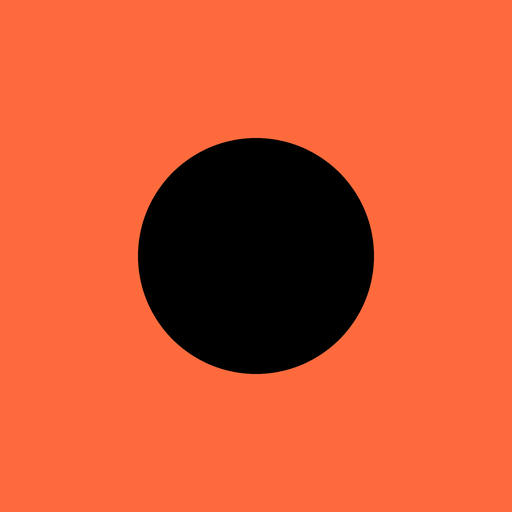
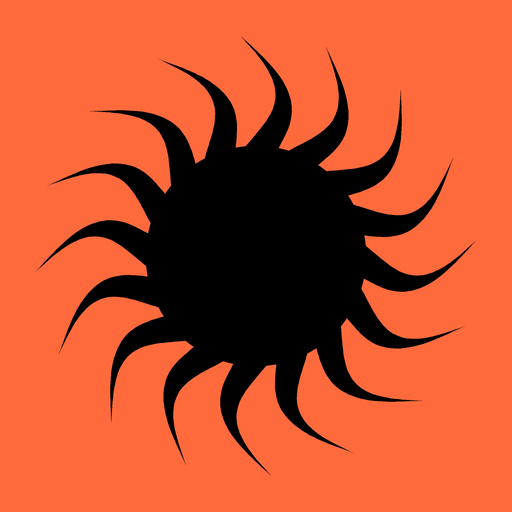
Настройка дней недели, описания дней, последний вес, иконка-солнце
- Неделя: кнопка «Настроить дни недели», любой день для каждой тренировки
- День: ⋮ рядом с заголовком — описание дня, пометка в календаре, день недели
- Рабочий вес подставляется из последней сохранённой тренировки
- Новая иконка: чёрное солнце с волнистыми лучами на оранжевом
- Кэш офлайн-режима v3, чтобы телефоны подтянули обновление

Claude-Session: https://claude.ai/code/session_01MYbBVZughW6KhHTYfuYpmL

diff --git a/index.html b/index.html
@@ -152,10 +152,10 @@ let toastT;
 function toast(msg) { const t = $('#toast'); t.textContent = msg; t.hidden = false; clearTimeout(toastT); toastT = setTimeout(() => { t.hidden = true; }, 2600); }
 
 /* ===== Маршруты: #week, #day-d1, #progress, #calendar ===== */
-let delEx = null;
+let delEx = null, weekEdit = false, dayEdit = false;
 let openEdit = null, savedNote = null, calY, calM, delArm = null, progEx = null;
 function go(h) { if (location.hash === '#' + h) render(); else location.hash = h; }
-window.addEventListener('hashchange', () => { openEdit = null; delEx = null; savedNote = null; delArm = null; render(); window.scrollTo(0, 0); });
+window.addEventListener('hashchange', () => { openEdit = null; delEx = null; weekEdit = false; dayEdit = false; savedNote = null; delArm = null; render(); window.scrollTo(0, 0); });
 
 function render() {
   const h = (location.hash || '#week').slice(1);
@@ -170,15 +170,17 @@ function renderWeek() {
   const now = new Date(), wd = now.getDay();
   const monday = new Date(now); monday.setDate(now.getDate() - ((wd + 6) % 7));
   const doneDates = new Set(db.sessions.map((s) => s.date));
-  const planWd = new Map(db.program.days.map((d) => [d.weekday, d]));
+  const planWd = new Map();
+  db.program.days.forEach((d) => { if (!planWd.has(d.weekday)) planWd.set(d.weekday, []); planWd.get(d.weekday).push(d); });
   let strip = '';
   for (let i = 0; i < 7; i++) {
     const d = new Date(monday); d.setDate(monday.getDate() + i);
     const p = planWd.get(d.getDay());
     const cls = [doneDates.has(iso(d)) ? 'done' : (p ? 'plan' : ''), iso(d) === today() ? 'now' : ''].join(' ');
-    strip += `<div class="${cls}">${WD_SHORT[d.getDay()]}<b>${p ? esc(p.title.replace('День ', '')) : '—'}</b></div>`;
+    strip += `<div class="${cls}">${WD_SHORT[d.getDay()]}<b>${p ? esc(p.map((x) => x.title.replace('День ', '')).join(',')) : '—'}</b></div>`;
   }
-  const days = db.program.days.map((d) => {
+  const sorted = db.program.days.slice().sort((a, b) => WD_ORDER.indexOf(a.weekday) - WD_ORDER.indexOf(b.weekday));
+  const days = sorted.map((d) => {
     const isToday = d.weekday === wd;
     return `<a class="card daycard ${isToday ? 'today' : ''}" href="#day-${d.id}">
       <span class="eyebrow">${isToday ? 'Сегодня · ' : ''}${WD_CAP[d.weekday]}</span>
@@ -188,8 +190,11 @@ function renderWeek() {
   $('#app').innerHTML = `<section class="screen">
     <div class="top"><span class="eyebrow">Программа на массу</span></div>
     <h1>Неделя</h1>
-    <p class="sub">${db.program.days.map((d) => WD_SHORT[d.weekday].toLowerCase()).join(', ')} · отмечено ${doneDates.size} трен. всего</p>
-    <div class="stack"><div class="strip" aria-label="Эта неделя">${strip}</div>${days}
+    <p class="sub">${sorted.map((d) => WD_SHORT[d.weekday].toLowerCase()).join(', ')} · отмечено ${doneDates.size} трен. всего</p>
+    <div class="stack"><div class="strip" aria-label="Эта неделя">${strip}</div>
+      <button class="link" type="button" id="wdtoggle" aria-expanded="${weekEdit}">${weekEdit ? 'Готово' : 'Настроить дни недели'}</button>
+      ${weekEdit ? `<div class="card edit" style="padding:14px 16px">${db.program.days.map((d) => `<label for="wd-${d.id}">${esc(d.title)} · ${esc(d.label)}</label>${wdSelect('wd-' + d.id, d.weekday, 'data-wd="' + d.id + '"')}`).join('')}</div>` : ''}
+      ${days}
       <a class="link" href="#progress">Прогресс по упражнениям</a>
       <div style="display:flex;gap:10px;flex-wrap:wrap">
         <button class="link" id="exp" type="button">Сохранить копию данных</button>
@@ -199,16 +204,28 @@ function renderWeek() {
     </div>
     <div class="bottom"><a class="btn" href="#calendar">Календарь</a></div>
   </section>`;
+  $('#wdtoggle').onclick = () => { weekEdit = !weekEdit; renderWeek(); };
+  document.querySelectorAll('[data-wd]').forEach((sel) => sel.onchange = () => { dayById(sel.dataset.wd).weekday = parseInt(sel.value, 10); persist(); renderWeek(); });
   $('#exp').onclick = exportData;
   $('#imp').onchange = importData;
 }
 
 /* ===== День тренировки ===== */
 function sessionFor(dayId, date) { return db.sessions.find((s) => s.day === dayId && s.date === date); }
+// последний сохранённый вес упражнения: из самой свежей тренировки, где он есть
+function lastWeight(exId) {
+  let best = null;
+  db.sessions.forEach((s) => { if (s.weights[exId] != null && (!best || s.date > best.date)) best = s; });
+  return best ? best.weights[exId] : '';
+}
+const WD_ORDER = [1, 2, 3, 4, 5, 6, 0];
+function wdSelect(id, value, attrs) {
+  return `<select id="${id}" ${attrs}>${WD_ORDER.map((w) => `<option value="${w}" ${w === value ? 'selected' : ''}>${WD_CAP[w]}</option>`).join('')}</select>`;
+}
 function renderDay(id) {
   const d = dayById(id), s = sessionFor(id, today());
   const cards = d.exercises.map((e) => {
-    const w = s && s.weights[e.id] != null ? s.weights[e.id] : '';
+    const w = s && s.weights[e.id] != null ? s.weights[e.id] : lastWeight(e.id);
     const ed = openEdit === e.id ? `<div class="edit">
         <label for="m-${e.id}">Мышечная группа</label>
         <input id="m-${e.id}" type="text" value="${esc(e.muscle)}" data-f="muscle" data-ex="${e.id}">
@@ -228,13 +245,27 @@ function renderDay(id) {
   }).join('');
   $('#app').innerHTML = `<section class="screen">
     <div class="top"><a class="link" href="#week">← Неделя</a><span class="eyebrow">${WD_CAP[d.weekday]}</span></div>
-    <h1>${esc(d.title)}</h1><p class="sub">${esc(d.label)} · ${d.exercises.length} упражнений</p>
+    <div class="exrow"><div class="exinfo"><h1>${esc(d.title)}</h1><p class="sub">${esc(d.label)} · ${d.exercises.length} упражнений</p></div>
+      <button class="dots" type="button" id="dayedit" aria-label="Настроить день" aria-expanded="${dayEdit}">${DOTS}</button></div>
+    ${dayEdit ? `<div class="card edit" style="padding:14px 16px;margin-top:10px">
+      <label for="dl">Описание дня</label><input id="dl" type="text" value="${esc(d.label)}" data-day="label">
+      <label for="dt">Пометка в календаре (коротко)</label><input id="dt" type="text" maxlength="5" value="${esc(d.tag)}" data-day="tag">
+      <label for="dw">День недели</label>${wdSelect('dw', d.weekday, 'data-day="weekday"')}
+      <button class="btn ghost" type="button" id="dayclose">Готово</button></div>` : ''}
     <div class="stack">${cards}
       <button class="btn ghost" type="button" id="addex">+ Добавить упражнение</button>
       <a class="link" href="#progress">Смотреть прогресс по упражнениям</a></div>
     <div class="bottom">${savedNote ? `<p class="okmsg">${esc(savedNote)}</p>` : (s ? '<p class="okmsg">Сегодня уже сохранено. Можно поправить и сохранить ещё раз.</p>' : '')}
       <button class="btn" type="button" id="save">Сохранить тренировку</button></div>
   </section>`;
+  $('#dayedit').onclick = () => { dayEdit = !dayEdit; keepWeightsThen(() => renderDay(id)); };
+  const dc = $('#dayclose'); if (dc) dc.onclick = () => { dayEdit = false; keepWeightsThen(() => renderDay(id)); };
+  document.querySelectorAll('[data-day]').forEach((inp) => inp.onchange = () => {
+    const f = inp.dataset.day;
+    if (f === 'weekday') d.weekday = parseInt(inp.value, 10);
+    else { const v = inp.value.trim(); if (v) d[f] = v; }
+    persist(); keepWeightsThen(() => renderDay(id));
+  });
   document.querySelectorAll('[data-edit]').forEach((b) => b.onclick = () => { delEx = null; openEdit = openEdit === b.dataset.edit ? null : b.dataset.edit; keepWeightsThen(() => renderDay(id)); });
   document.querySelectorAll('[data-close]').forEach((b) => b.onclick = () => { openEdit = null; delEx = null; keepWeightsThen(() => renderDay(id)); });
   document.querySelectorAll('[data-delex]').forEach((b) => b.onclick = () => {

diff --git a/sw.js b/sw.js
@@ -1,5 +1,5 @@
 // Офлайн-режим: сохраняем файлы приложения на телефоне
-const CACHE = 'gymdiary-v2';
+const CACHE = 'gymdiary-v3';
 const FILES = ['./', './index.html', './manifest.webmanifest', './icon-192.png', './icon-512.png', './icon-maskable-512.png', './favicon.png'];
 self.addEventListener('install', (e) => { e.waitUntil(caches.open(CACHE).then((c) => c.addAll(FILES)).then(() => self.skipWaiting())); });
 self.addEventListener('activate', (e) => { e.waitUntil(caches.keys().then((ks) => Promise.all(ks.filter((k) => k !== CACHE).map((k) => caches.delete(k)))).then(() => self.clients.claim())); });
